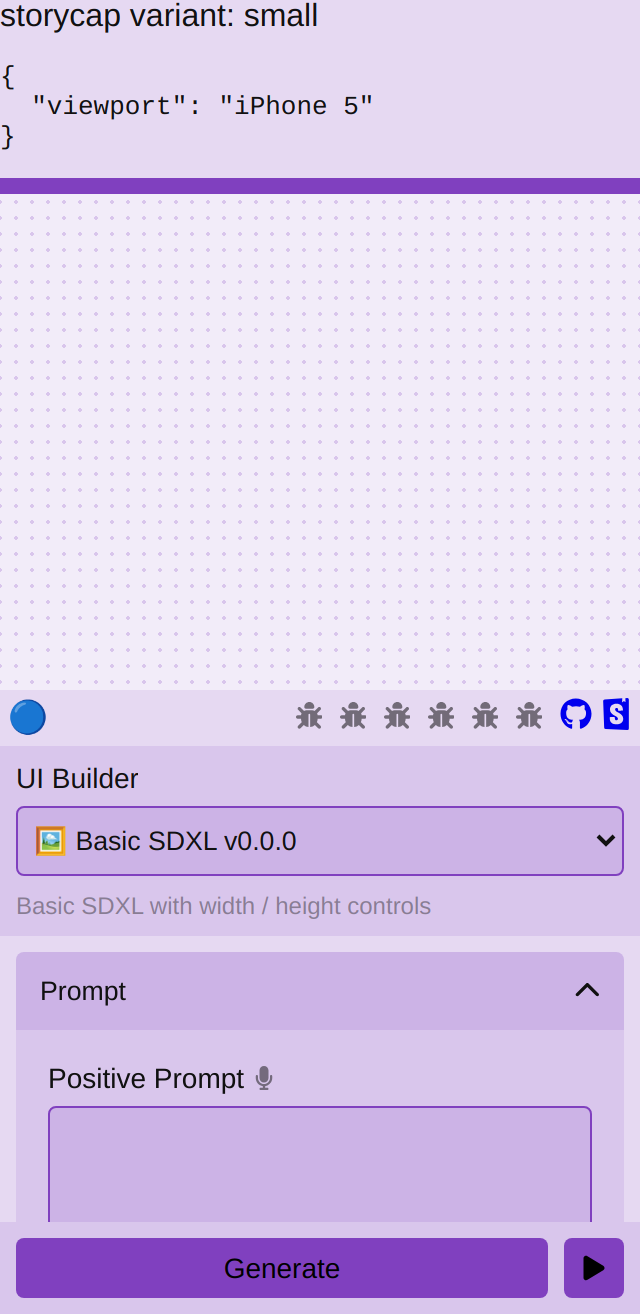
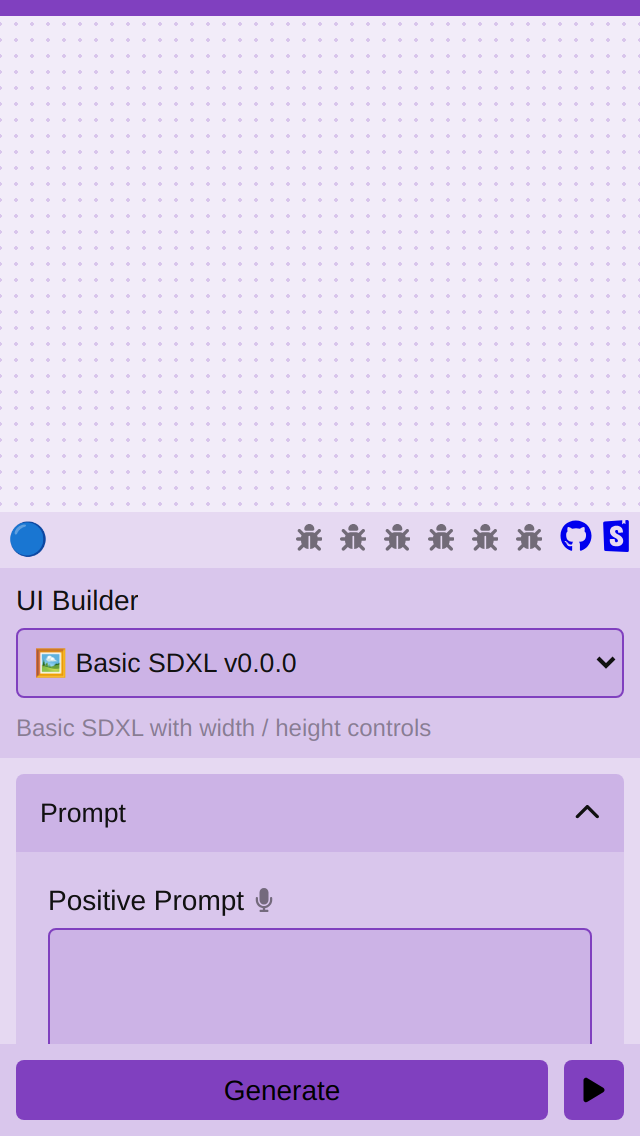
dark mode storycaps

diff --git a/packages/storybook/ProjectDecorator.jsx b/packages/storybook/ProjectDecorator.jsx
@@ -9,32 +9,27 @@ const useStorycapCurrentVariant = () => {
   const screenshot = useParameter('screenshot');
   const [storycapVariant, setStorycapVariant] = useState();
   const [storycapVariantData, setStorycapVariantData] = useState();
+
   useEffect(() => {
     const asyncFn = async () => {
       if (!isScreenshot()) return;
-      const currentVariantKey = await window.getCurrentVariantKey();
+      const currentVariantKey = await window.getCurrentVariantKey(); // magic
       const variant = currentVariantKey.keys[0];
       setStorycapVariant(variant);
       setStorycapVariantData(screenshot.variants[variant]);
     };
     asyncFn();
-  }, []);
+  }, []); // eslint-disable-line react-hooks/exhaustive-deps
 
   return { storycapVariant, storycapVariantData };
 };
 
 const ProjectDecorator = Story => {
-  const { storycapVariant, storycapVariantData } = useStorycapCurrentVariant();
+  const { storycapVariant } = useStorycapCurrentVariant();
 
   return (
     <>
-      {storycapVariant && (
-        <div>
-          storycap variant: {storycapVariant}
-          <pre>{JSON.stringify(storycapVariantData, null, 2)}</pre>
-        </div>
-      )}
-      <GlobalStyle />
+      <GlobalStyle forceDark={storycapVariant === 'dark'} />
       <Theme1Style />
       <Providers>
         <Story />

diff --git a/src/components/globalStyles.jsx b/src/components/globalStyles.jsx
@@ -1,6 +1,6 @@
 import ConfigsContext from '@/contexts/ConfigsContext';
 import { useContext } from 'react';
-import { createGlobalStyle } from 'styled-components';
+import { createGlobalStyle, css } from 'styled-components';
 
 export const Theme1Style = createGlobalStyle`
   :root {
@@ -16,6 +16,14 @@ export const Theme = () => {
   return <Theme1Style hue={config.configData.theme?.hue} />;
 };
 
+const darkOverrides = css`
+  --fg: #eee;
+  --lightness-bg0: 5%;
+  --lightness-bg1: 10%;
+  --lightness-bg2: 15%;
+  --lightness-bg3: 20%;
+`;
+
 export const GlobalStyle = createGlobalStyle`
   :root {
     --fg: #111;
@@ -25,12 +33,10 @@ export const GlobalStyle = createGlobalStyle`
     --lightness-bg3: 80%;
 
     @media (prefers-color-scheme: dark) {
-      --fg: #eee;
-      --lightness-bg0: 5%;
-      --lightness-bg1: 10%;
-      --lightness-bg2: 15%;
-      --lightness-bg3: 20%;
+      ${darkOverrides}
     }
+
+    ${({ forceDark }) => forceDark && darkOverrides}
 
     --primary: hsl(var(--hue1) var(--saturation1) 50%);  
     --input-outline: var(--primary);

diff --git a/packages/storybook/.storybook/preview.jsx b/packages/storybook/.storybook/preview.jsx
@@ -23,9 +23,7 @@ const preview = {
       // https://github.com/reg-viz/storycap#api
       delay: 200, // default 0 msec
       variants: {
-        dark: {
-          colorScheme: 'dark',
-        },
+        dark: true,
       },
     },
   },
